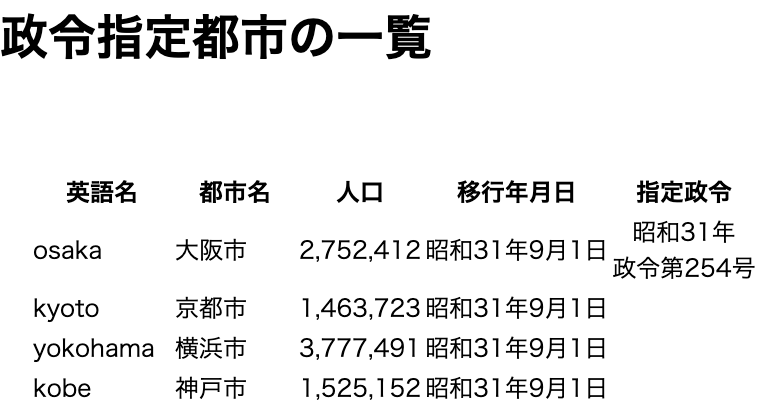
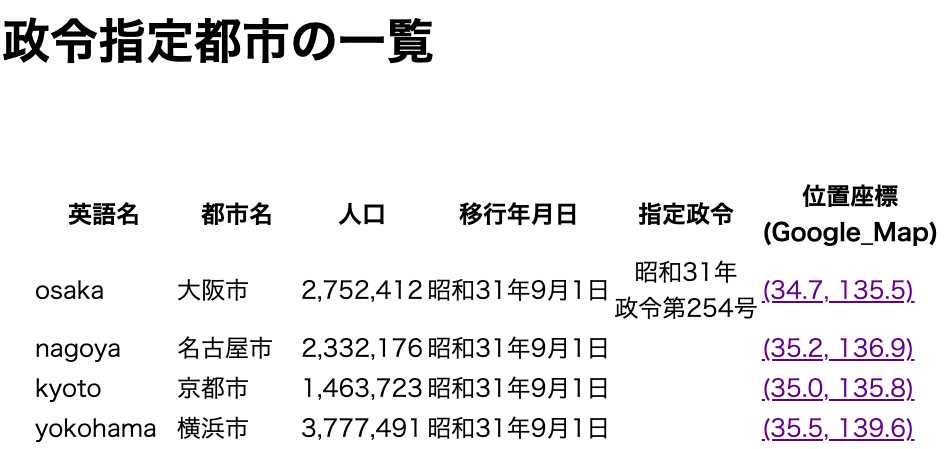
update

diff --git a/japan_municipal_code/japan_ordinance_designated_city_list/files/japan_ordinance_designated_city_list.html b/japan_municipal_code/japan_ordinance_designated_city_list/files/japan_ordinance_designated_city_list.html
@@ -17,6 +17,7 @@ city code
 <th>人口</th>
 <th>移行年月日</th>
 <th>指定政令</th>
+<th>位置座標<br/>(Google_Map)</th>
 </tr>
 </thead>
 <tbody>
@@ -26,6 +27,15 @@ city code
 <td align="right">2,752,412</td>
 <td  align="center">昭和31年9月1日</td>
 <td align="center">昭和31年<br/>    政令第254号</td>
+<td><a href="https://www.google.com/maps/@34.69375,135.50211,10z">(34.7, 135.5)</a></td>
+</tr>
+<tr>
+<td>nagoya</td>
+<td>名古屋市</td>
+<td align="right">2,332,176</td>
+<td  align="center">昭和31年9月1日</td>
+<td align="center"></td>
+<td><a href="https://www.google.com/maps/@35.1814,136.9064,10z">(35.2, 136.9)</a></td>
 </tr>
 <tr>
 <td>kyoto</td>
@@ -33,6 +43,7 @@ city code
 <td align="right">1,463,723</td>
 <td  align="center">昭和31年9月1日</td>
 <td align="center"></td>
+<td><a href="https://www.google.com/maps/@35.01161,135.76811,10z">(35.0, 135.8)</a></td>
 </tr>
 <tr>
 <td>yokohama</td>
@@ -40,6 +51,7 @@ city code
 <td align="right">3,777,491</td>
 <td  align="center">昭和31年9月1日</td>
 <td align="center"></td>
+<td><a href="https://www.google.com/maps/@35.45033,139.63422,10z">(35.5, 139.6)</a></td>
 </tr>
 <tr>
 <td>kobe</td>
@@ -47,6 +59,7 @@ city code
 <td align="right">1,525,152</td>
 <td  align="center">昭和31年9月1日</td>
 <td align="center"></td>
+<td><a href="https://www.google.com/maps/@34.69017,135.19544,10z">(34.7, 135.2)</a></td>
 </tr>
 <tr>
 <td>kitakyushu</td>
@@ -54,6 +67,7 @@ city code
 <td align="right">939,029</td>
 <td  align="center">昭和38年4月1日</td>
 <td align="center">昭和38年<br/>    政令第10号</td>
+<td><a href="https://www.google.com/maps/@33.88342,130.87519,10z">(33.9, 130.9)</a></td>
 </tr>
 <tr>
 <td>sapporo</td>
@@ -61,6 +75,7 @@ city code
 <td align="right">1,973,395</td>
 <td  align="center">昭和47年4月1日</td>
 <td align="center">昭和46年<br/>    政令第276号</td>
+<td><a href="https://www.google.com/maps/@43.06208,141.35439,10z">(43.1, 141.4)</a></td>
 </tr>
 <tr>
 <td>kawasaki</td>
@@ -68,13 +83,15 @@ city code
 <td align="right">1,538,262</td>
 <td  align="center">昭和47年4月1日</td>
 <td align="center"></td>
+<td><a href="https://www.google.com/maps/@35.53089,139.703,10z">(35.5, 139.7)</a></td>
 </tr>
 <tr>
-<td>shizuoka</td>
+<td>fukuoka</td>
 <td>福岡市</td>
 <td align="right">1,612,392</td>
 <td  align="center">昭和47年4月1日</td>
 <td align="center"></td>
+<td><a href="https://www.google.com/maps/@33.59,130.4017,10z">(33.6, 130.4)</a></td>
 </tr>
 <tr>
 <td>hiroshima</td>
@@ -82,6 +99,7 @@ city code
 <td align="right">1,200,754</td>
 <td  align="center">昭和55年4月1日</td>
 <td align="center">昭和54年<br/>    政令第237号</td>
+<td><a href="https://www.google.com/maps/@34.3914,132.4519,10z">(34.4, 132.5)</a></td>
 </tr>
 <tr>
 <td>sendai</td>
@@ -89,13 +107,15 @@ city code
 <td align="right">1,096,704</td>
 <td  align="center">平成元年4月1日</td>
 <td align="center">昭和63年<br/>    政令第261号</td>
+<td><a href="https://www.google.com/maps/@38.26822,140.86942,10z">(38.3, 140.9)</a></td>
 </tr>
 <tr>
 <td>chiba</td>
 <td>千葉市</td>
 <td align="right">974,951</td>
-<td  align="center">平成4年4月1日</td>
+<td  align="center">平成4年4月1 日</td>
 <td align="center">平成3年<br/>    政令第324号</td>
+<td><a href="https://www.google.com/maps/@35.60728,140.10636,10z">(35.6, 140.1)</a></td>
 </tr>
 <tr>
 <td>saitama</td>
@@ -103,6 +123,7 @@ city code
 <td align="right">1,324,025</td>
 <td  align="center">平成15年4月1日</td>
 <td align="center">平成14年<br/>    政令第319号</td>
+<td><a href="https://www.google.com/maps/@35.8614,139.6456,10z">(35.9, 139.6)</a></td>
 </tr>
 <tr>
 <td>shizuoka</td>
@@ -110,6 +131,7 @@ city code
 <td align="right">693,389</td>
 <td  align="center">平成17年4月1日</td>
 <td align="center">平成16年<br/>    政令第322号</td>
+<td><a href="https://www.google.com/maps/@34.9756,138.3825,10z">(35.0, 138.4)</a></td>
 </tr>
 <tr>
 <td>sakai</td>
@@ -117,6 +139,7 @@ city code
 <td align="right">826,161</td>
 <td  align="center">平成18年4月1日</td>
 <td align="center">平成17年<br/>    政令第323号</td>
+<td><a href="https://www.google.com/maps/@34.57333,135.483,10z">(34.6, 135.5)</a></td>
 </tr>
 <tr>
 <td>niigata</td>
@@ -124,6 +147,7 @@ city code
 <td align="right">789,275</td>
 <td  align="center">平成19年4月1日</td>
 <td align="center">平成18年<br/>    政令第338号</td>
+<td><a href="https://www.google.com/maps/@37.91619,139.03639,10z">(37.9, 139.0)</a></td>
 </tr>
 <tr>
 <td>hamamatsu</td>
@@ -131,6 +155,7 @@ city code
 <td align="right">790,718</td>
 <td  align="center">平成19年4月1日</td>
 <td align="center"></td>
+<td><a href="https://www.google.com/maps/@34.71089,137.72619,10z">(34.7, 137.7)</a></td>
 </tr>
 <tr>
 <td>okayama</td>
@@ -138,6 +163,7 @@ city code
 <td align="right">724,691</td>
 <td  align="center">平成21年4月1日</td>
 <td align="center">平成20年<br/>    政令第315号</td>
+<td><a href="https://www.google.com/maps/@34.65511,133.91958,10z">(34.7, 133.9)</a></td>
 </tr>
 <tr>
 <td>sagamihara</td>
@@ -145,6 +171,7 @@ city code
 <td align="right">725,493</td>
 <td  align="center">平成22年4月1日</td>
 <td align="center">平成21年<br/>    政令第251号</td>
+<td><a href="https://www.google.com/maps/@35.57142,139.37314,10z">(35.6, 139.4)</a></td>
 </tr>
 <tr>
 <td>kumamoto</td>
@@ -152,6 +179,7 @@ city code
 <td align="right">738,865</td>
 <td  align="center">平成24年4月1日</td>
 <td align="center">平成23年<br/>    政令第323号</td>
+<td><a href="https://www.google.com/maps/@32.803,130.70786,10z">(32.8, 130.7)</a></td>
 </tr>
 
 </tbody>

diff --git a/japan_municipal_code/japan_ordinance_designated_city_list/python/json2html.py b/japan_municipal_code/japan_ordinance_designated_city_list/python/json2html.py
@@ -8,9 +8,28 @@ FILE_JSON = 'japan_ordinance_designated_city_list.json'
 FILE_HTML = 'japan_ordinance_designated_city_list.html'
 
 
+
+
+TEMPLATE_A_TAG = '<a href="{href}">{name}</a>'
+
+TEMPLATE_GMAP ='https://www.google.com/maps/@{lat},{lon},{zoom}z'
+
+TEMPLATE_LATLON = '({lat:.1f}, {lon:.1f})'
+
 LF_HTML = '&#010;'
 
 BR = '<br/>'
+
+ZOOM = 10
+
+
+def make_coordinates(lat, lon):
+    gmap = TEMPLATE_GMAP.format(lat=lat, lon=lon, zoom=ZOOM)
+    latlon =TEMPLATE_LATLON.format( lat=lat, lon=lon )
+    atag =TEMPLATE_A_TAG.format(href=gmap, name=latlon)
+    return atag
+#
+
 
 def  replace_lf(data):
     if not data:
@@ -49,8 +68,10 @@ for item in list_cities :
     population = item['population']
     date = item['date']
     decree = replace_lf( item['decree'] )
-
-    row = template_row.format(name=name, name_ja=name_ja, population=population, date =date, decree=decree)
+    lat = item['lat']
+    lon = item['lon']
+    row_coordinates = make_coordinates(lat, lon)
+    row = template_row.format(name=name, name_ja=name_ja, population=population, date =date, decree=decree, coordinates=row_coordinates)
     print(row)
     rows +=  row
 #

diff --git a/japan_municipal_code/japan_ordinance_designated_city_list/python/csv2json.py b/japan_municipal_code/japan_ordinance_designated_city_list/python/csv2json.py
@@ -65,7 +65,7 @@ with open(FILE_CSV, 'r') as f1:
     for row in reader:
         len_row = len(row)
         print('len: ', len_row)
-        if len_row < 5:
+        if len_row < 7:
             continue
         d= {}
         d['name_ja'] = row[0].strip()
@@ -73,7 +73,8 @@ with open(FILE_CSV, 'r') as f1:
         d['date'] = row[2].strip()
         d['decree'] = restore_hyphen( row[3] )
         d['name'] = row[4].strip()
-
+        d['lat'] = float( row[5].strip() )
+        d['lon'] = float( row[6].strip() )
         print(d)
         cities.append(d)
 #
